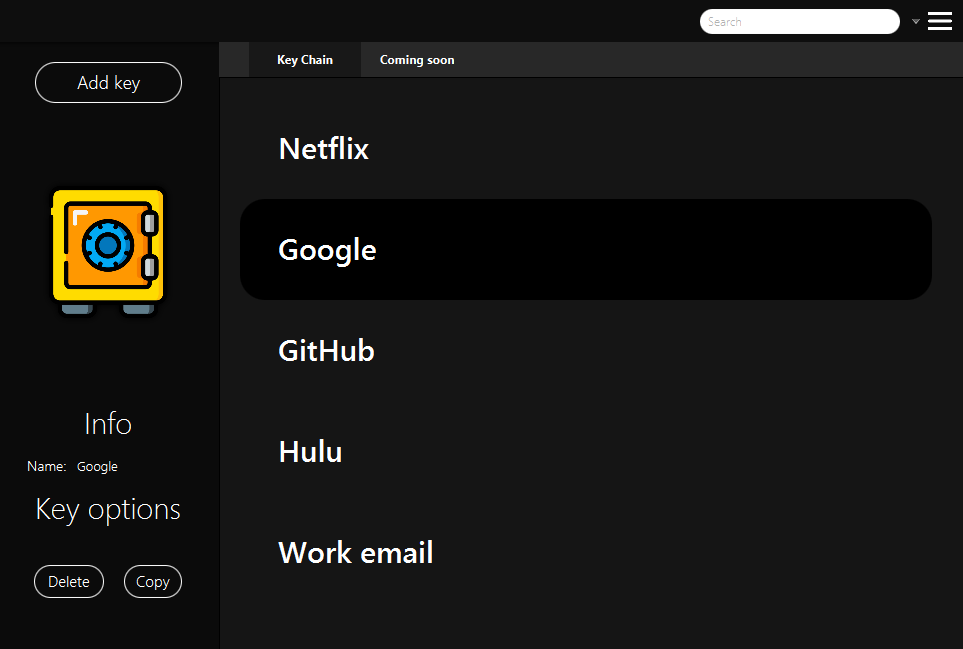
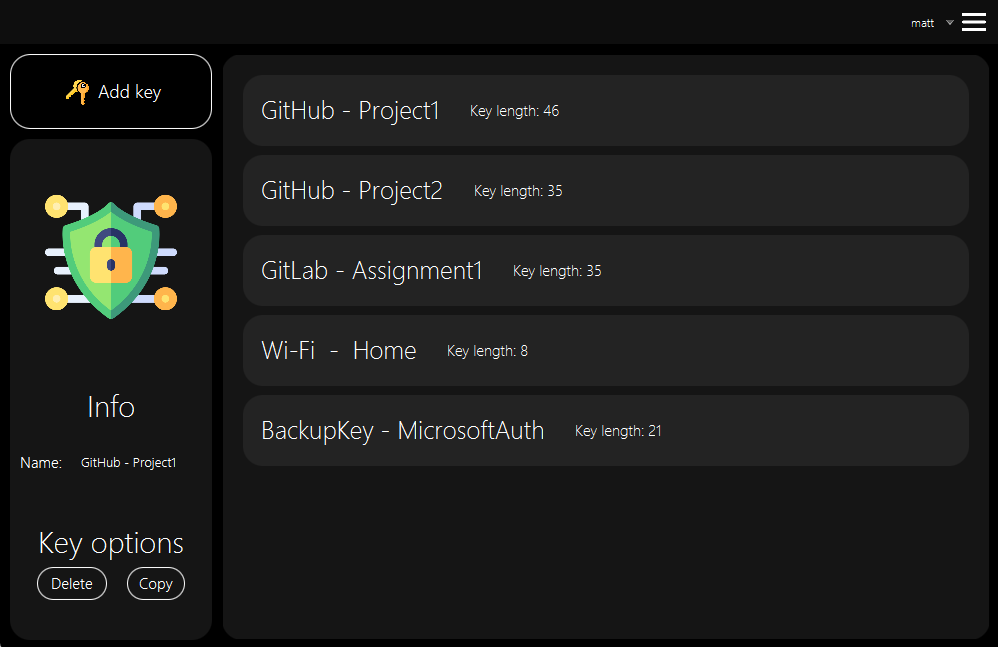
Added screenshot

diff --git a/src/main/java/com/calmat/keyaqua/ui/KeyMenuController.java b/src/main/java/com/calmat/keyaqua/ui/KeyMenuController.java
@@ -53,14 +53,17 @@ public class KeyMenuController implements Initializable {
     private VBox optionBox;
 
     @FXML
-
     private BorderPane bg;
+
+    @FXML
+    private Label activeUserLabel;
 
     public void populateList() {
         Database database = new Database();
         KeyChain keychain = database.loadKeys();
         List<String> keyList = keychain.getKeyNames();
         keyBox.getChildren().clear();
+        activeUserLabel.setText(database.getActiveUserAsString());
 
 
         for (int i = 0; i < keyList.size(); i++){
